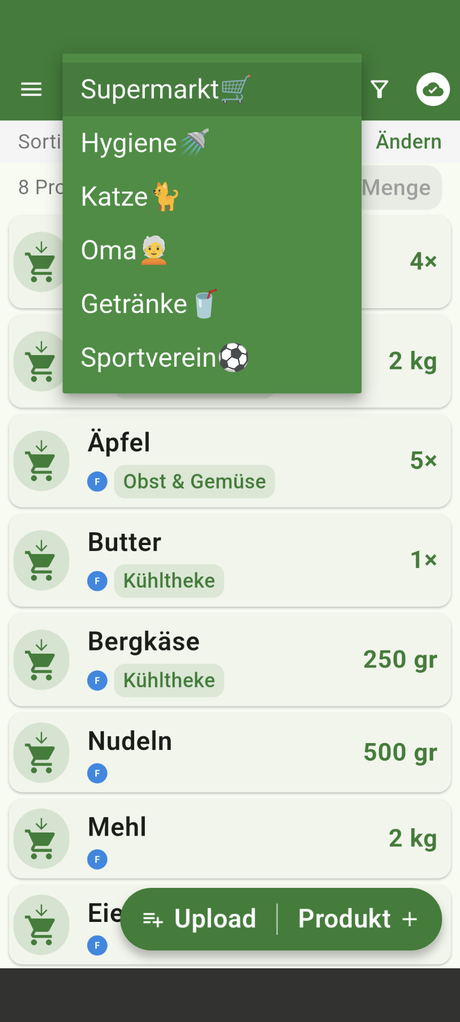
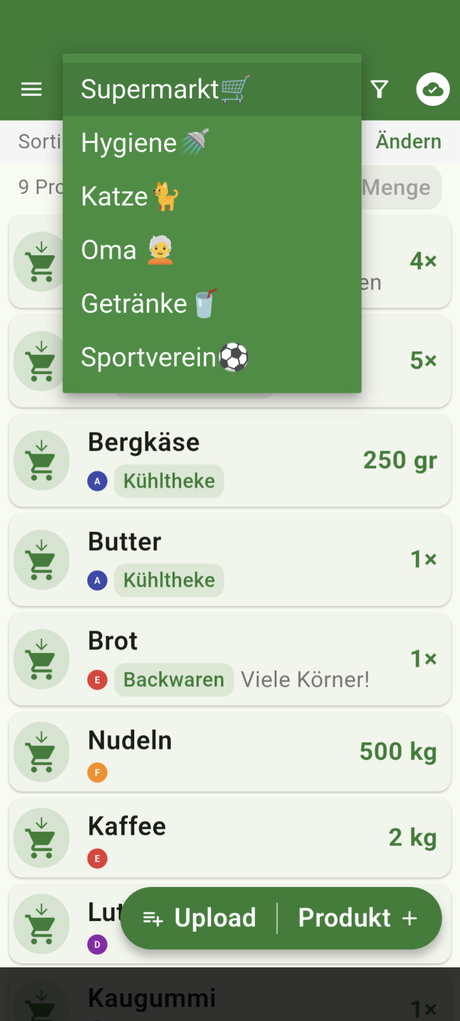
Add files via upload

diff --git a/datenschutz.html b/datenschutz.html
@@ -7,15 +7,11 @@
 <meta name="robots" content="noindex">
 <link rel="preconnect" href="https://fonts.googleapis.com"><link href="https://fonts.googleapis.com/css2?family=Bricolage+Grotesque:opsz,wght@12..96,600;12..96,700;12..96,800&family=Inter:wght@400;500;600&display=swap" rel="stylesheet">
 <style>
-  :root{--green:#2E7D32;--green-dark:#1B5E20;--surface:#F1F7EF;--ink:#1C2A1E;--muted:#5B6B5D;--line:#DCE7D8;--cream:#FBFAF6}
+  :root{--green:#2E7D32;--green-dark:#1B5E20;--surface:#F3F9F0;--ink:#16241A;--muted:#5E6C60;--line:#E2E9DD;--cream:#FBFAF6}
   *{box-sizing:border-box}
   body{margin:0;font-family:"Inter",system-ui,-apple-system,Segoe UI,Roboto,sans-serif;color:var(--ink);line-height:1.65;background:var(--cream,#FBFAF6)}
   h1,h2{font-family:"Bricolage Grotesque",system-ui,sans-serif;letter-spacing:-.02em}
   a{color:var(--green-dark)}
-  .wrap{max-width:680px;margin:0 auto;padding:0 20px}
-  header{background:var(--surface);border-bottom:1px solid var(--line);padding:14px 0}
-  .brand{display:flex;align-items:center;gap:10px;font-weight:700;font-size:19px;text-decoration:none;color:var(--ink)}
-  .brand .tick{width:26px;height:26px;border-radius:7px;background:var(--green);display:grid;place-items:center;color:#fff;font-size:15px}
   main{padding:34px 0 60px}
   h1{font-size:28px;letter-spacing:-.01em;margin:0 0 6px}
   h2{font-size:18px;margin:30px 0 6px}
@@ -24,12 +20,27 @@
   .ph{background:#FFF6DC;border:1px dashed #E0C86A;border-radius:6px;padding:1px 7px;font-weight:600;color:#7A5B00}
   .draft{background:#FFF6DC;border:1px solid #E0C86A;border-radius:12px;padding:14px 16px;font-size:14px;color:#7A5B00;margin:0 0 24px}
   .note{background:var(--surface);border:1px solid var(--line);border-radius:12px;padding:14px 16px;font-size:14px;color:var(--muted);margin:26px 0 0}
-  footer{border-top:1px solid var(--line);background:var(--surface);padding:22px 0;font-size:14px;color:var(--muted)}
-  footer a{font-weight:600;text-decoration:none}
+  :root{--disp:"Bricolage Grotesque",system-ui,sans-serif}
+  .wrap{max-width:1120px;margin:0 auto;padding:0 22px}
+  main.wrap{max-width:720px}
+  .brand{display:inline-flex;align-items:center;gap:11px;font-family:var(--disp);font-weight:800;font-size:20px;color:var(--ink);text-decoration:none}
+  .brand .mk{width:32px;height:32px;border-radius:9px;background:var(--green);display:grid;place-items:center;box-shadow:0 5px 12px -4px rgba(46,125,50,.7);flex:none}
+  .brand .mk svg{width:18px;height:18px}
+  header{position:sticky;top:0;z-index:30;background:rgba(251,250,246,.82);backdrop-filter:saturate(1.4) blur(10px);border-bottom:1px solid var(--line);padding:0}
+  .bar{display:flex;align-items:center;justify-content:space-between;height:64px}
+  footer{background:var(--cream);border-top:1px solid var(--line);padding:32px 0;font-size:14px;color:var(--muted)}
+  .foot{display:flex;justify-content:space-between;align-items:center;gap:16px;flex-wrap:wrap}
+  .foot .links{display:flex;gap:22px}
+  .foot a{color:var(--muted);text-decoration:none;font-weight:600}
+  .foot a.brand{color:var(--ink);font-weight:800;font-size:20px;font-family:var(--disp)}
 </style>
 </head>
 <body>
-  <header><div class="wrap"><a class="brand" href="index.html"><span class="tick" aria-hidden="true"><svg viewBox="0 0 24 24" fill="none" stroke="#fff" stroke-width="2" stroke-linecap="round" stroke-linejoin="round" width="17" height="17"><circle cx="9" cy="21" r="1"/><circle cx="20" cy="21" r="1"/><path d="M1 1h4l2.68 13.39a2 2 0 0 0 2 1.61h9.72a2 2 0 0 0 2-1.61L23 6H6"/></svg></span>Listikus</a></div></header>
+  <header>
+    <div class="wrap bar">
+      <a class="brand" href="index.html"><span class="mk"><svg viewBox="0 0 24 24" fill="none" stroke="#fff" stroke-width="2" stroke-linecap="round" stroke-linejoin="round"><circle cx="9" cy="21" r="1"/><circle cx="20" cy="21" r="1"/><path d="M1 1h4l2.68 13.39a2 2 0 0 0 2 1.61h9.72a2 2 0 0 0 2-1.61L23 6H6"/></svg></span>Listikus</a>
+    </div>
+  </header>
 
   <main class="wrap">
     <h1>Datenschutzerkl&auml;rung</h1>
@@ -99,6 +110,16 @@
     </div>
   </main>
 
-  <footer><div class="wrap"><a href="index.html">&larr; Zur&uuml;ck zur Startseite</a></div></footer>
+  <footer>
+    <div class="wrap foot">
+      <a class="brand" href="index.html"><span class="mk"><svg viewBox="0 0 24 24" fill="none" stroke="#fff" stroke-width="2" stroke-linecap="round" stroke-linejoin="round"><circle cx="9" cy="21" r="1"/><circle cx="20" cy="21" r="1"/><path d="M1 1h4l2.68 13.39a2 2 0 0 0 2 1.61h9.72a2 2 0 0 0 2-1.61L23 6H6"/></svg></span>Listikus</a>
+      <div class="links">
+        <a href="datenschutz.html">Datenschutz</a>
+        <a href="impressum.html">Impressum</a>
+        <a href="mailto:[email redacted]">Kontakt</a>
+      </div>
+      <div>&copy; 2026 Listikus</div>
+    </div>
+  </footer>
 </body>
 </html>

diff --git a/impressum.html b/impressum.html
@@ -7,27 +7,38 @@
 <meta name="robots" content="noindex">
 <link rel="preconnect" href="https://fonts.googleapis.com"><link href="https://fonts.googleapis.com/css2?family=Bricolage+Grotesque:opsz,wght@12..96,600;12..96,700;12..96,800&family=Inter:wght@400;500;600&display=swap" rel="stylesheet">
 <style>
-  :root{--green:#2E7D32;--green-dark:#1B5E20;--surface:#F1F7EF;--ink:#1C2A1E;--muted:#5B6B5D;--line:#DCE7D8;--cream:#FBFAF6}
+  :root{--green:#2E7D32;--green-dark:#1B5E20;--surface:#F3F9F0;--ink:#16241A;--muted:#5E6C60;--line:#E2E9DD;--cream:#FBFAF6}
   *{box-sizing:border-box}
   body{margin:0;font-family:"Inter",system-ui,-apple-system,Segoe UI,Roboto,sans-serif;color:var(--ink);line-height:1.65;background:var(--cream,#FBFAF6)}
   h1,h2{font-family:"Bricolage Grotesque",system-ui,sans-serif;letter-spacing:-.02em}
   a{color:var(--green-dark)}
-  .wrap{max-width:680px;margin:0 auto;padding:0 20px}
-  header{background:var(--surface);border-bottom:1px solid var(--line);padding:14px 0}
-  .brand{display:flex;align-items:center;gap:10px;font-weight:700;font-size:19px;text-decoration:none;color:var(--ink)}
-  .brand .tick{width:26px;height:26px;border-radius:7px;background:var(--green);display:grid;place-items:center;color:#fff;font-size:15px}
   main{padding:34px 0 60px}
   h1{font-size:28px;letter-spacing:-.01em;margin:0 0 6px}
   h2{font-size:17px;margin:30px 0 6px}
   p{margin:6px 0}
   .ph{background:#FFF6DC;border:1px dashed #E0C86A;border-radius:6px;padding:1px 7px;font-weight:600;color:#7A5B00;white-space:nowrap}
   .note{background:var(--surface);border:1px solid var(--line);border-radius:12px;padding:14px 16px;font-size:14px;color:var(--muted);margin:26px 0 0}
-  footer{border-top:1px solid var(--line);background:var(--surface);padding:22px 0;font-size:14px;color:var(--muted)}
-  footer a{font-weight:600;text-decoration:none}
+  :root{--disp:"Bricolage Grotesque",system-ui,sans-serif}
+  .wrap{max-width:1120px;margin:0 auto;padding:0 22px}
+  main.wrap{max-width:720px}
+  .brand{display:inline-flex;align-items:center;gap:11px;font-family:var(--disp);font-weight:800;font-size:20px;color:var(--ink);text-decoration:none}
+  .brand .mk{width:32px;height:32px;border-radius:9px;background:var(--green);display:grid;place-items:center;box-shadow:0 5px 12px -4px rgba(46,125,50,.7);flex:none}
+  .brand .mk svg{width:18px;height:18px}
+  header{position:sticky;top:0;z-index:30;background:rgba(251,250,246,.82);backdrop-filter:saturate(1.4) blur(10px);border-bottom:1px solid var(--line);padding:0}
+  .bar{display:flex;align-items:center;justify-content:space-between;height:64px}
+  footer{background:var(--cream);border-top:1px solid var(--line);padding:32px 0;font-size:14px;color:var(--muted)}
+  .foot{display:flex;justify-content:space-between;align-items:center;gap:16px;flex-wrap:wrap}
+  .foot .links{display:flex;gap:22px}
+  .foot a{color:var(--muted);text-decoration:none;font-weight:600}
+  .foot a.brand{color:var(--ink);font-weight:800;font-size:20px;font-family:var(--disp)}
 </style>
 </head>
 <body>
-  <header><div class="wrap"><a class="brand" href="index.html"><span class="tick" aria-hidden="true"><svg viewBox="0 0 24 24" fill="none" stroke="#fff" stroke-width="2" stroke-linecap="round" stroke-linejoin="round" width="17" height="17"><circle cx="9" cy="21" r="1"/><circle cx="20" cy="21" r="1"/><path d="M1 1h4l2.68 13.39a2 2 0 0 0 2 1.61h9.72a2 2 0 0 0 2-1.61L23 6H6"/></svg></span>Listikus</a></div></header>
+  <header>
+    <div class="wrap bar">
+      <a class="brand" href="index.html"><span class="mk"><svg viewBox="0 0 24 24" fill="none" stroke="#fff" stroke-width="2" stroke-linecap="round" stroke-linejoin="round"><circle cx="9" cy="21" r="1"/><circle cx="20" cy="21" r="1"/><path d="M1 1h4l2.68 13.39a2 2 0 0 0 2 1.61h9.72a2 2 0 0 0 2-1.61L23 6H6"/></svg></span>Listikus</a>
+    </div>
+  </header>
 
   <main class="wrap">
     <h1>Impressum</h1>
@@ -65,6 +76,16 @@
     </div>
   </main>
 
-  <footer><div class="wrap"><a href="index.html">&larr; Zur&uuml;ck zur Startseite</a></div></footer>
+  <footer>
+    <div class="wrap foot">
+      <a class="brand" href="index.html"><span class="mk"><svg viewBox="0 0 24 24" fill="none" stroke="#fff" stroke-width="2" stroke-linecap="round" stroke-linejoin="round"><circle cx="9" cy="21" r="1"/><circle cx="20" cy="21" r="1"/><path d="M1 1h4l2.68 13.39a2 2 0 0 0 2 1.61h9.72a2 2 0 0 0 2-1.61L23 6H6"/></svg></span>Listikus</a>
+      <div class="links">
+        <a href="datenschutz.html">Datenschutz</a>
+        <a href="impressum.html">Impressum</a>
+        <a href="mailto:[email redacted]">Kontakt</a>
+      </div>
+      <div>&copy; 2026 Listikus</div>
+    </div>
+  </footer>
 </body>
 </html>

diff --git a/index.html b/index.html
@@ -176,6 +176,7 @@
   .pcard .phone .zoom svg{width:18px;height:18px}
   .pcard .phone:hover .scr img{transform:scale(1.03)}
   .pcard p{color:var(--muted);font-size:14.5px;margin:0}
+  .shots-note{text-align:center; color:var(--muted); font-size:13.5px; margin:30px auto 0}
   .lb{position:fixed;inset:0;background:rgba(10,20,12,.82);display:none;align-items:center;justify-content:center;z-index:100;padding:24px;cursor:zoom-out}
   .lb.open{display:flex}
   .lb img{max-height:90vh;max-width:94vw;border-radius:22px;box-shadow:0 30px 80px -20px rgba(0,0,0,.7)}
@@ -262,6 +263,7 @@
       </article>
     </div>
 
+    <p class="shots-note">Alle Abbildungen zeigen die tats&auml;chliche Darstellung direkt aus Listikus.</p>
   </div>
 </section>
 
@@ -299,7 +301,7 @@
       </div>
       <div class="cta-body">
         <h2>Schon bald<br>im Google Play Store.</h2>
-        <p>Schreibe uns an, und wir informieren dich, sobald Listikus verfügbar ist.</p>
+        <p>Schreibe uns und wir informieren dich, sobald Listikus verfügbar ist.</p>
         <a class="cta-btn" href="mailto:[email redacted]?subject=Bitte%20informieren%2C%20wenn%20Listikus%20verf%C3%BCgbar%20ist&body=Hallo%20Listikus-Team%2C%20bitte%20informiert%20mich%2C%20sobald%20Listikus%20im%20Google%20Play%20Store%20verf%C3%BCgbar%20ist."><svg><use href="#i-bell"/></svg> Benachrichtigt werden</a>
       </div>
     </div>